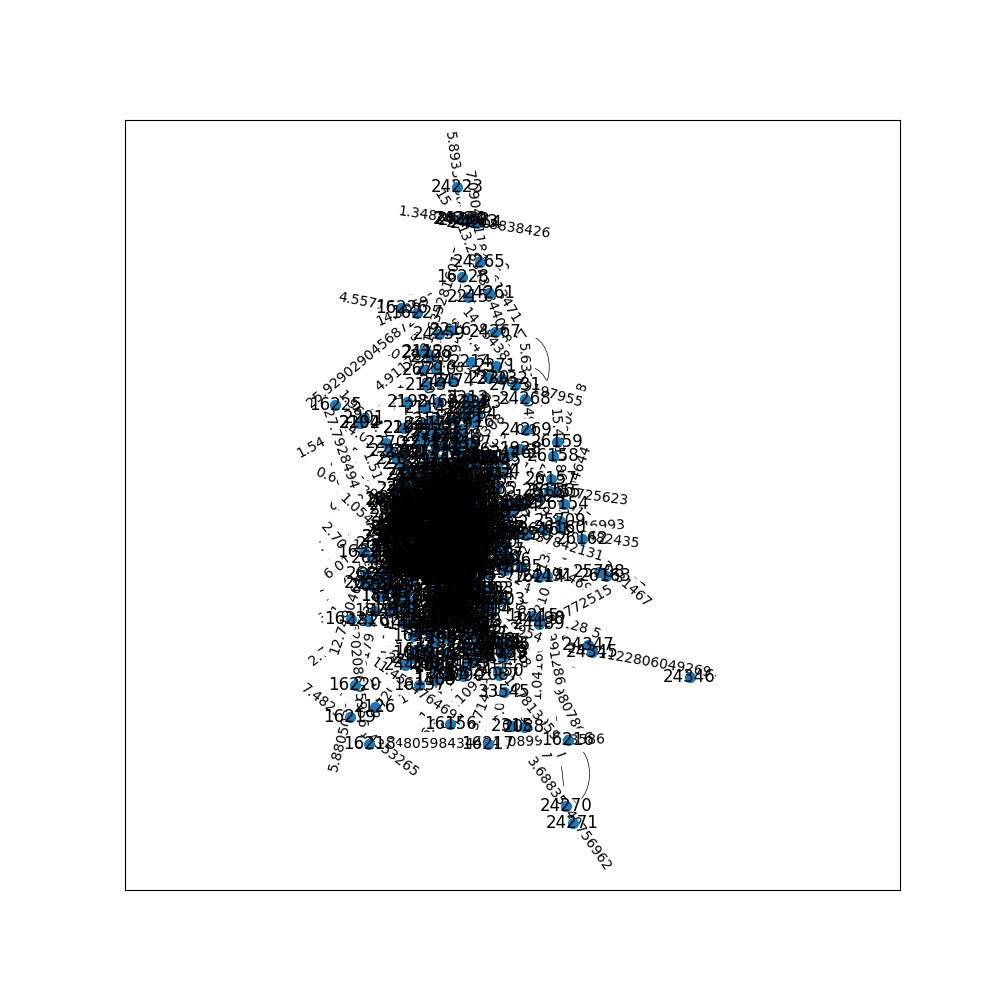
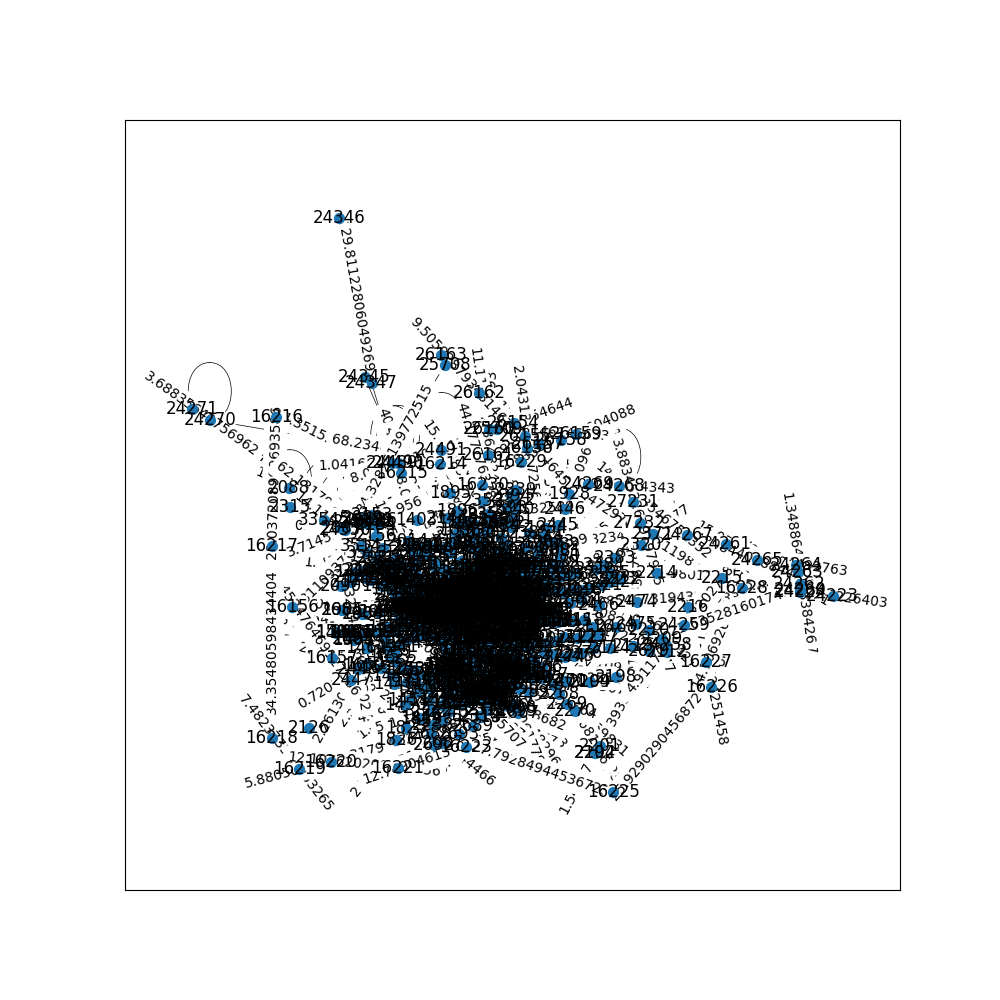
map updates

diff --git a/src/main.py b/src/main.py
@@ -22,14 +22,14 @@ transport_modes = pd.read_csv('../data/transport_modes.csv')
 modes_colors = {
     'default': '#000000',  # Black
     'high_speed_rail': '#FF0000',  # Bright Red
-    'inter_city_rail': '#FFFF00',  # Bright Yellow
+    'inter_city_rail': 'teal',  # Bright Yellow
     'commuter_rail': '#00FF00',  # Bright Green
     'heavy_rail': '#0000FF',  # Bright Blue
     'light_rail': '#FF00FF',  # Magenta
-    'brt': '#00FFFF',  # Cyan
+    'brt': '#FFC0CB',  # Light Pink
     'people_mover': '#FFA500',  # Orange
     'bus': '#800080',  # Purple
-    'tram': '#FFC0CB',  # Light Pink
+    'tram': '#00FFFF',  # Cyan
     'ferry': '#A52A2A'  # Brown
 }
 
@@ -212,7 +212,7 @@ for i, row in expanded_df.iterrows():
 # Create a new figure for the graph
 plt.figure(figsize=(10, 10))
 # Draw the graph
-pos = {node: latlon_to_xy(data['latitude'], data['longitude']) for node, data in G.nodes(data=True)}
+pos = {node: latlon_to_xy(data['longitude'], data['latitude']) for node, data in G.nodes(data=True)}
 nx.draw_networkx(G, pos, with_labels=True, node_size=50, width=0.5)
 labels = nx.get_edge_attributes(G, 'weight')
 nx.draw_networkx_edge_labels(G, pos, edge_labels=labels)
@@ -261,11 +261,15 @@ fig, ax = plt.subplots(figsize=(40, 40))
 for _, row in gdf_lines.iterrows():
     ax.plot(*row['geometry'].xy, color=row['color'], linewidth=2, zorder=1)
 
-# Plot stations
-gdf_stations.plot(ax=ax, color='blue', edgecolor='blue', markersize=50, zorder=2)
+# Ensure the color is correctly mapped to the stations
+gdf_stations['color'] = gdf_stations['name'].map(modes_colors)
+
+# Plot stations with colors based on transport modes using scatter
+for _, row in gdf_stations.iterrows():
+    ax.scatter(row.geometry.x, row.geometry.y, color=row['color'], s=50, zorder=2, edgecolor='white')
 
 # Add basemap
-ctx.add_basemap(ax, crs=gdf_stations.crs.to_string(), source=ctx.providers.OpenStreetMap.Mapnik)
+ctx.add_basemap(ax, crs=gdf_stations.crs.to_string(), source=ctx.providers.CartoDB.Positron)
 
 ax.set_axis_off()
 
